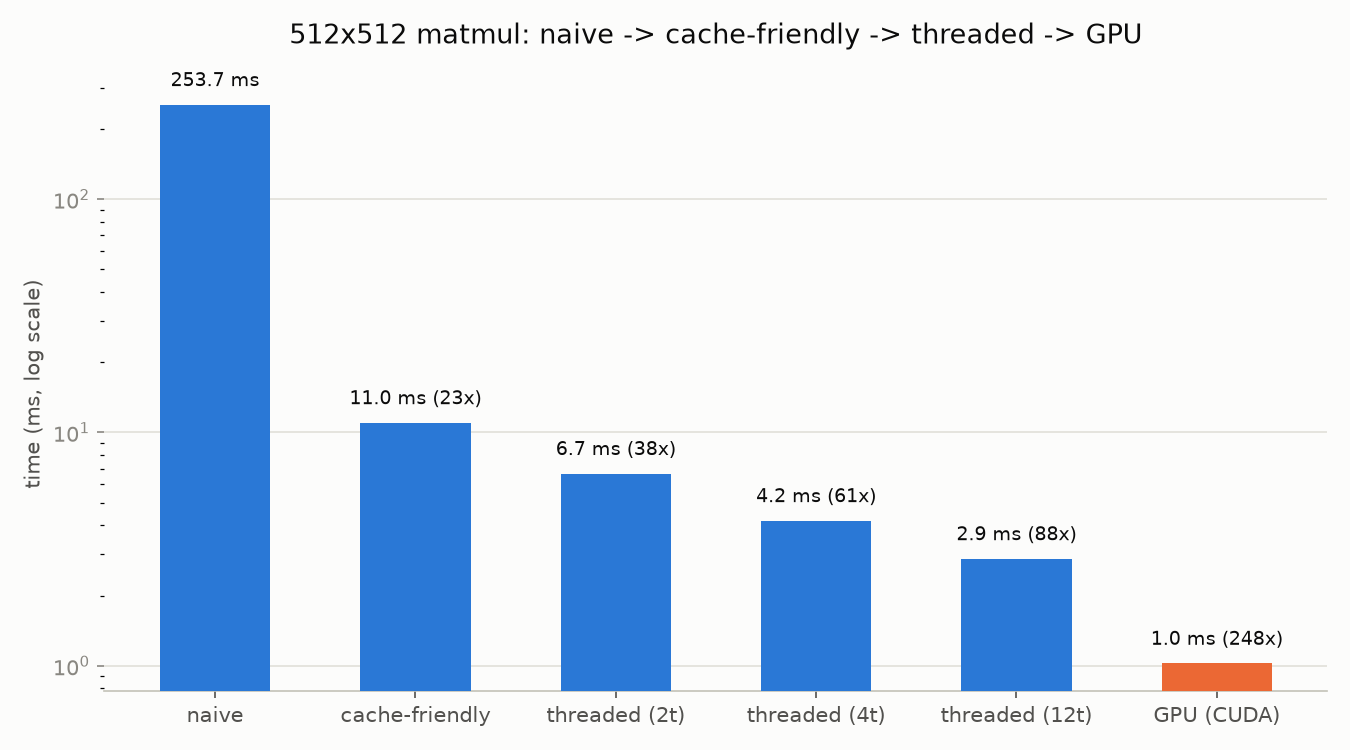
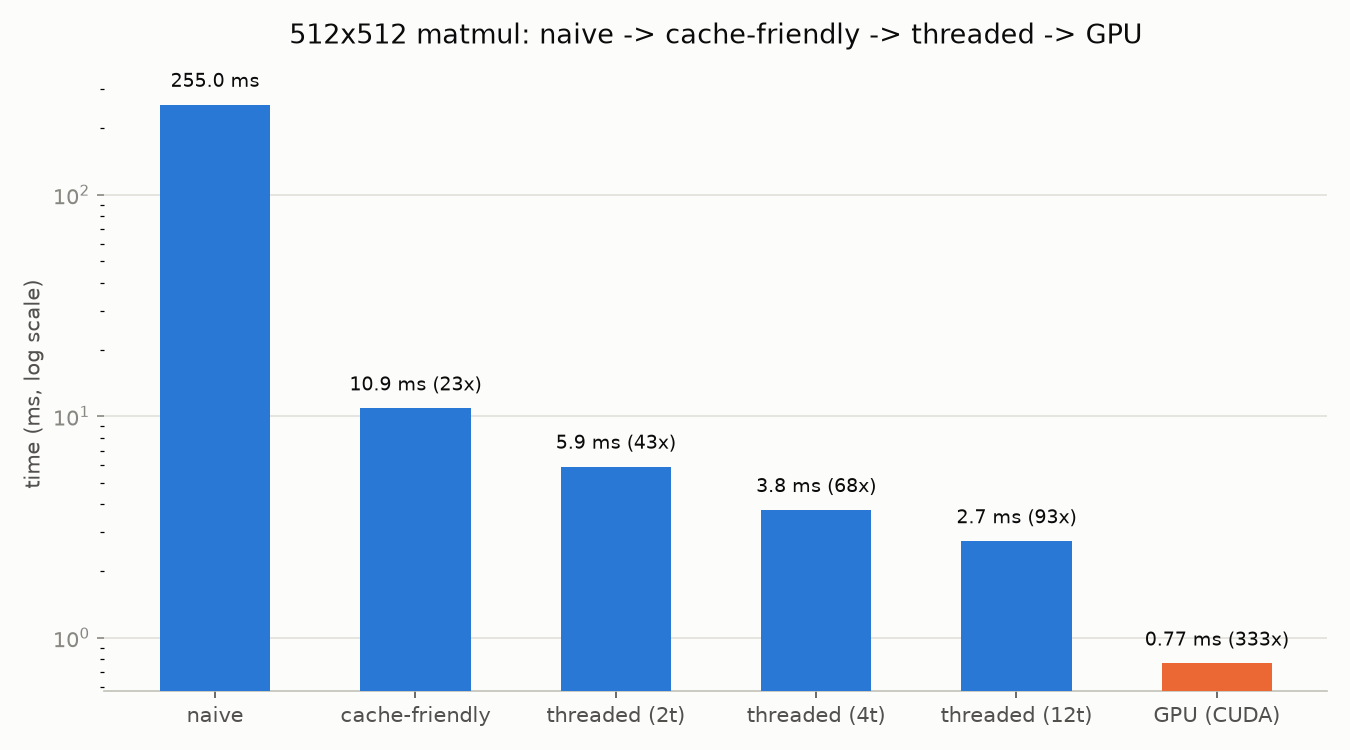
Average the 3 Colab GPU runs instead of using a single one
GPU timing ranged 0.63-1.02ms across 3 runs on Colab's shared T4 hardware --
averaging (0.77ms, ~333x vs naive CPU) is a more honest number than picking
whichever single run happened to be committed last, and the README now notes
the range plus that all 3 runs independently verified correctness.

diff --git a/README.md b/README.md
@@ -10,12 +10,13 @@ and benchmarked CPU vs. GPU. Built stage by stage while learning C++ along the w
       pretrained MNIST classifier. (96.8% test accuracy, matching the numpy
       reference model.)
 - [x] **Stage 2 — Make it fast**: cache-friendly matmul + multithreading, benchmarked.
-      (512x512 matmul: 254ms naive -> 11.0ms cache-friendly (23x) -> 2.9ms
-      threaded on 12 cores (88x). See `results/benchmarks.csv`.)
+      (512x512 matmul: 255ms naive -> 10.9ms cache-friendly (23x) -> 2.7ms
+      threaded on 12 cores (93x). See `results/benchmarks.csv`.)
 - [x] **Stage 3 — CUDA port**: matmul kernel on GPU, CPU vs. GPU timings.
-      (512x512 matmul: 1.0ms on a Colab T4 GPU vs. 254ms naive CPU — 248x, and
-      ~300x vs. a single-threaded CPU reference run in the same program.
-      Validated on a cloud GPU since this machine has none — see
+      (512x512 matmul: ~0.77ms on a Colab T4 GPU vs. 255ms naive CPU — ~333x
+      (averaged across 3 runs, which ranged 0.63-1.0ms due to Colab's shared
+      GPU hardware; consistently ~300x vs. a single-threaded CPU reference in
+      every run). Validated on a cloud GPU since this machine has none — see
       `stage3_cuda/README.md`.)
 - [ ] **Stage 4 — Stretch: tiny language model** (llama2.c-style), only if time allows.
 
